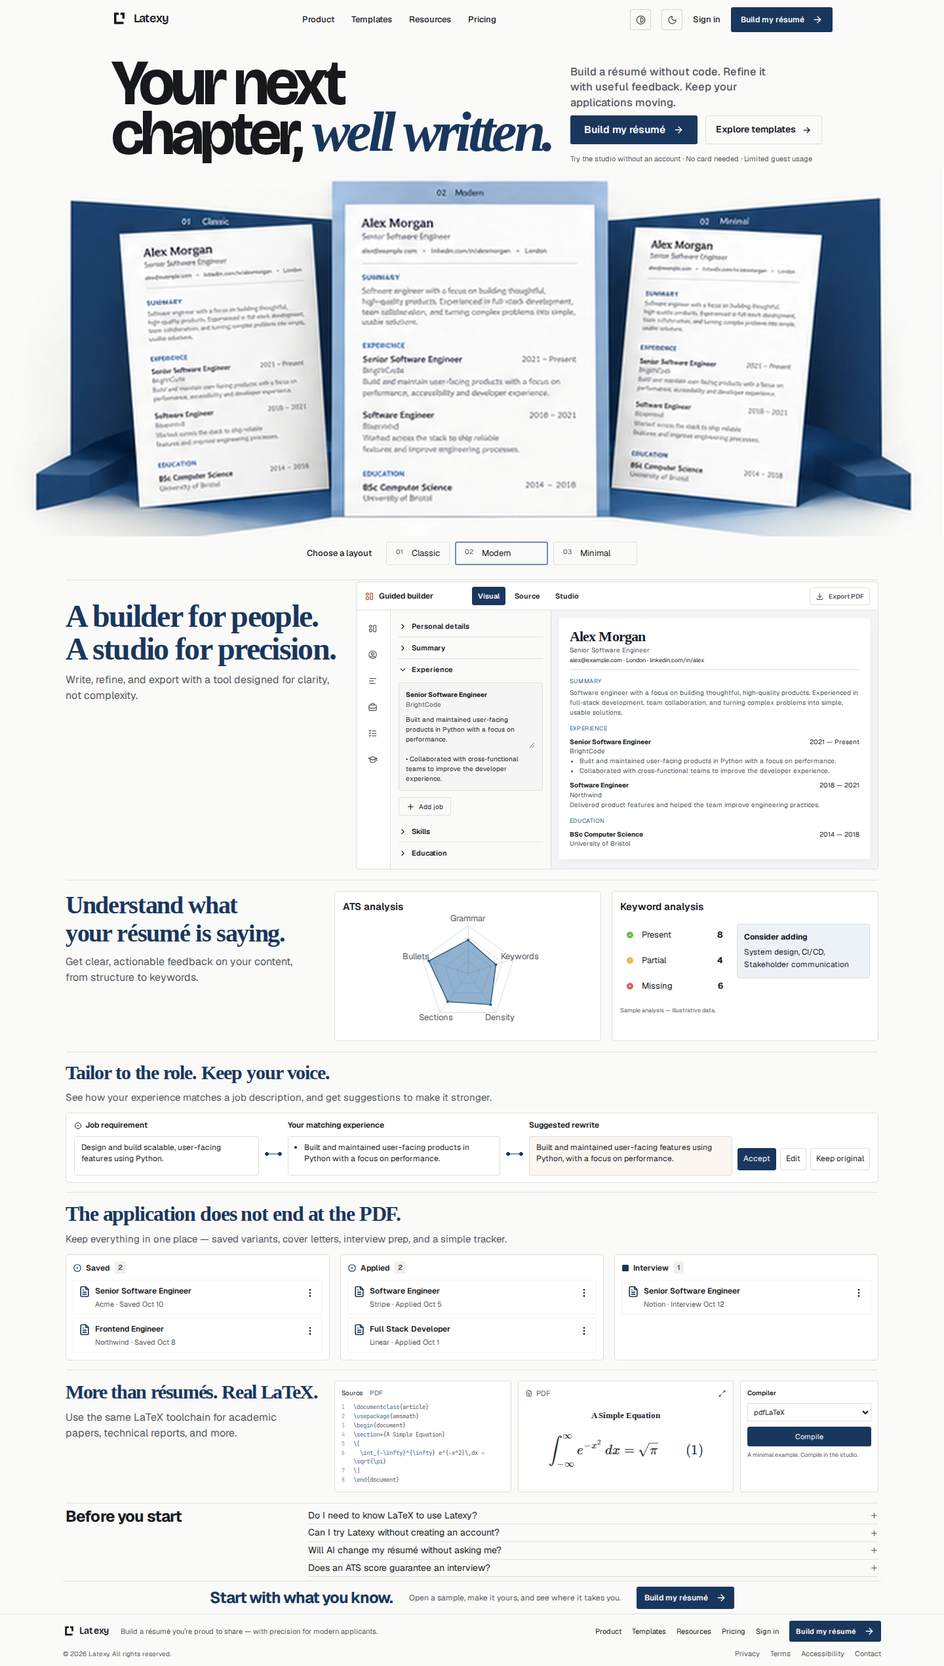
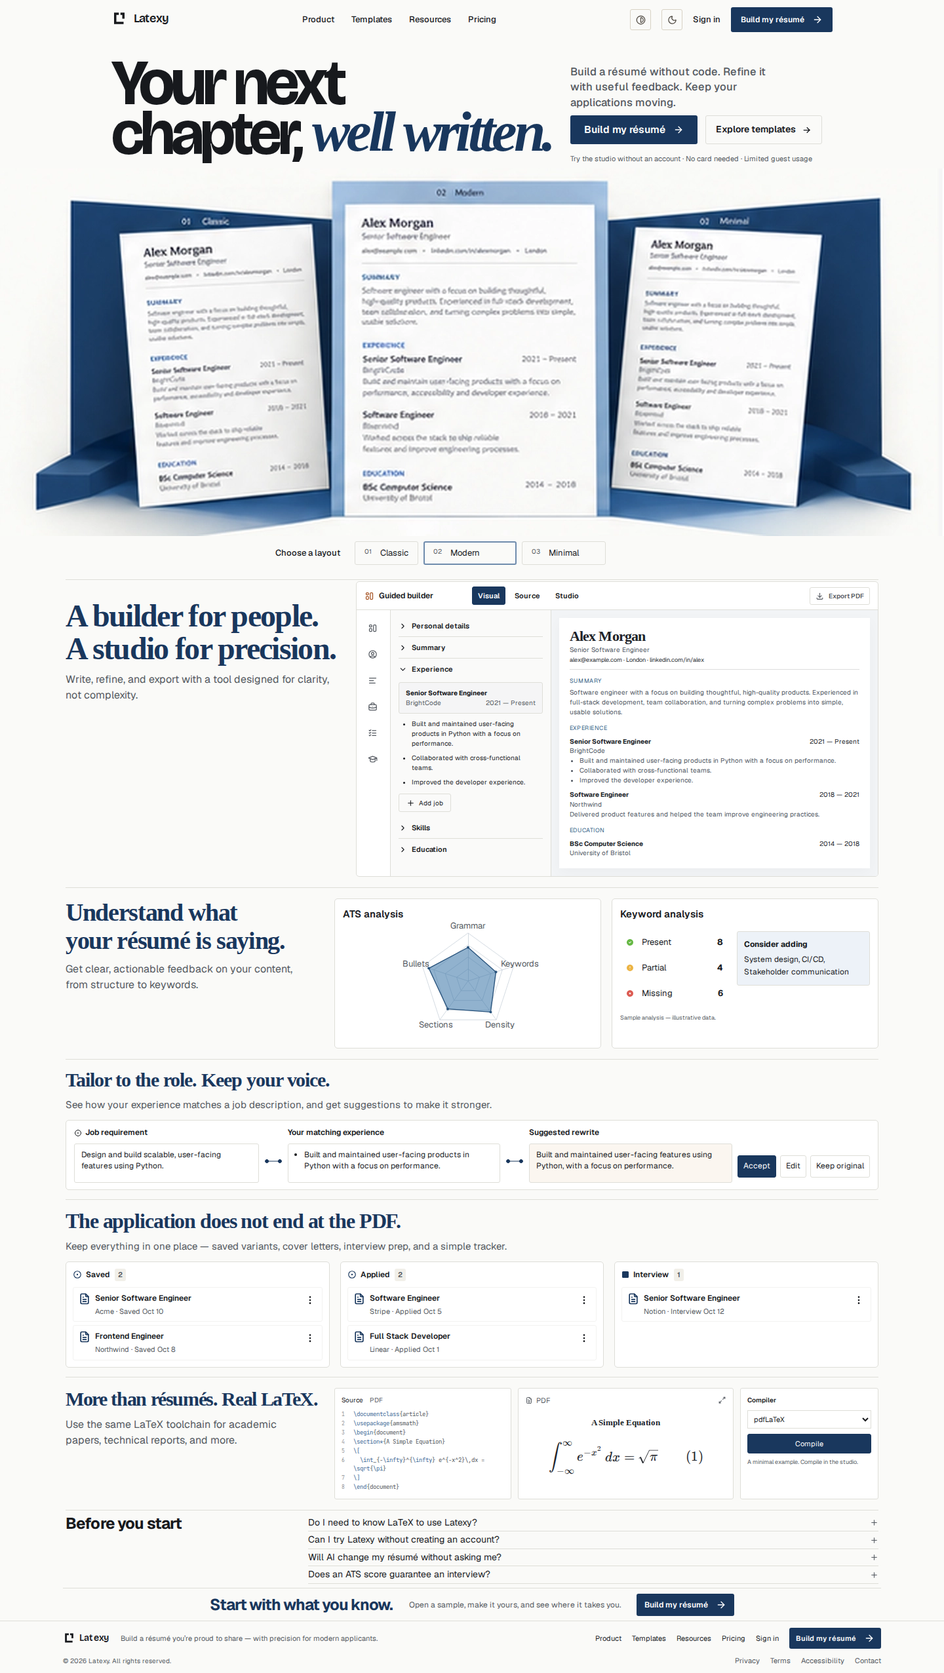
docs(marketing): publish final verified page screenshots

diff --git a/design-qa.md b/design-qa.md
@@ -1,121 +1,65 @@
 # Landing page design QA
 
-Date: 2026-10-13. Selected target: the third displayed concept from the second ideation set (Document House). Implementation branch: `codex/landing-document-house`, based on `7d1365bc` from `origin/main`.
+Reviewed: 2026-10-14. Scope: homepage marketing surface only. Branch: `codex/landing-document-house`, rebased onto main `d22998e0f45d55fd0a675e4cc622ab603c612d23` in the isolated worktree.
 
-## Visual truth and evidence
+## Evidence and comparison method
 
-- Source: `C:/Users/Sansk/.codex/generated_images/01a111a6-7bd6-7a81-9f26-b61e551a5767/exec-5ebff909-b113-416f-a1dd-3dfcc450d4dc.png`.
-- Browser evidence directory: `C:/Users/Sansk/.codex/visualizations/2026/10/06/01a111a6-7bd6-7a81-9f26-b61e551a5767/landing-qa/`.
-- Full views: `desktop-light.png`, `desktop-dark.png`, `mobile-light.png`, `mobile-dark.png`.
-- Focused dark views: `dark-builder-focused.png`, `dark-compiler-focused.png`.
-- Interaction evidence: `interactive-desktop.png`, `gallery-classic-focused.png`.
-- Normalized source views: `reference-light-normalized.png`, `reference-dark-normalized.png`.
+Selected target: the third displayed Document House reference, `exec-5ebff909-b113-416f-a1dd-3dfcc450d4dc.png` in the task's generated_images directory. The 1341 x 1173 paired image is split into light/dark halves and proportionally normalized to 1440px wide (2521/2517px tall). No vertical stretching is used.
 
-The source is a 1341 × 1173 paired theme image. Each half was cropped and proportionally resized to 1440 pixels wide: light 1440 × 2521, dark 1440 × 2517. Desktop captures use a 1440 × 1000 CSS viewport, device scale factor 1, with full-page height approximately 2767. Mobile uses 390 × 844 at scale factor 1. Default state is Modern gallery, guided authoring, collapsed personal details, expanded experience, and illustrative ATS findings. The source and rendered views were inspected together, then checked by a separate visual reviewer.
[1 lines of base64/hex data omitted]
 
-Full-page Chromium capture occasionally omitted off-screen text immediately after changing themes. Focused screenshots taken after scrolling into each preview prove all document text renders. Image completion, font readiness, two animation frames, and descendant color/visibility checks precede captures. White papers have RGB 255/255/255 backgrounds and RGB 32/35/41 text in dark mode.
+The source and latest actual renders were opened together in full-page comparison boards and focused section boards. The comparison directory is `C:/Users/Sansk/.codex/visualizations/2026/10/06/01a111a6-7bd6-7a81-9f26-b61e551a5767/landing-qa/current-acc/`. Focused captures cover all ten regions below in both themes, after loading fonts/images and scrolling each region into view. Their layout JSON uses document coordinates. Default state: Modern gallery, guided Visual builder, expanded experience, neutral illustrative keyword status, Source compiler view, collapsed FAQ.
+
+The committed raw captures are [desktop light](docs/design/landing/desktop-light.png), [desktop dark](docs/design/landing/desktop-dark.png), [mobile light](docs/design/landing/mobile-light.png) and [mobile dark](docs/design/landing/mobile-dark.png). Desktop is 1440 x 2553 pixels from a 1440 x 1000 CSS viewport at scale 1. Mobile is 1082 x 13170 pixels from the Pixel 7 profile, approximately 412 x 5015 CSS pixels. Mobile inspection boards normalize density to 412px. Exact hashes and provenance are in [capture metadata](docs/design/landing/capture.json).
+
+## Findings, corrections and post-fix review
+
+The earlier broad sign-off was withdrawn after user feedback. Fresh renders were used to identify and fix remaining differences; build success was never substituted for visual acceptance.
+
+| Region | Corrected detail | Final visual evidence / result |
+| --- | --- | --- |
+| Hero and header | Two-line headline, chapter/emphasis proportions and baselines, copy position, navy/amber actions, approved Imprint logo | Full boards and `*-lp-hero-comparison.png`; both themes preserve the selected hierarchy and wrapping. |
+| Gallery | Exact supplied gallery crop, paper dimensions, pale steel/gold palette, three selectors and selection border | `*-lp-gallery-comparison.png`; Modern now aligns beneath the center paper. Offset applies above 700px; mobile stays centered. |
+| Guided builder | Serif heading scale, rail, toolbar tabs, neutral/slate selection, preview proportions, role/company/date and three semantic bullets | `*-lp-builder-section-comparison.png`; final date/list fix is visible in both themes. Editor, source and preview share three bullets. No resize handle remains. |
+| ATS and keywords | Separate equal cards, chart scale/labels/fill, status icons and counts, dark recommendation bulb, neutral initial filters | `*-lp-analysis-section-comparison.png`; content is legible, theme contrast and card split match the composition. |
+| Tailoring | Inset cells, connector dots, bullet treatment, compact actions | `*-lp-tailoring-section-comparison.png`; no invented achievement is added by the suggested rewrite. |
+| Applications | Heading and three columns, count placement, stage symbols, document icons, softened nested borders | `*-lp-applications-section-comparison.png`; titles and dates fit at desktop and wrap on smaller widths. |
+| General LaTeX | Source/PDF/Compiler widths, syntax colors, Gaussian equation, actual PDF tab behavior and compile route | `*-lp-latex-section-comparison.png`; current Source boundary is within a few pixels of target. An older claimed 38px offset was rejected against current evidence. |
+| FAQ | Four source questions, heading and question column, rule spacing, right-hand plus/minus | `*-lp-faq-comparison.png`; collapsed and expanded states render correctly. |
+| Closing action | Compact heading, explanatory copy and primary action | `*-lp-closing-comparison.png`; desktop composition retained; mobile stacks controls. |
+| Footer | Brand/tagline group, navigation, sign-in, final action and legal row | `*-lp-footer-comparison.png`; logo and links are visible in both themes. Copyright correctly uses 2026. |
+
+No actionable P0/P1/P2 finding remains in the inspected final states. Independent focused review of the final gallery/builder captures also passed and found no new regression.
 
 ## Required fidelity surfaces
 
-- **Typography:** Bricolage display headline, serif italic emphasis, bold editorial section headings, Geist interface/body copy. Heading wrapping and weight were corrected to match the selected composition. Existing Imprint logo is reused.
-- **Layout:** preserved hero → gallery → authoring → ATS → tailoring → applications → LaTeX → FAQ → centered closing action → footer. The first implementation was 4008px tall; repeated revisions reduced it to approximately 2767px. The remaining height difference accommodates working controls, clearly labelled sample disclosures, and one additional LaTeX FAQ, without changing the principal composition.
-- **Colors:** paper/ink/navy in light mode; neutral charcoal, warm white headings, amber actions in dark mode. Gallery assets preserve white document paper. Semantic tokens support the existing high-contrast preference; reduced-motion CSS disables gallery transitions.
-- **Imagery:** optimized 1440 × 580 WebP gallery assets, approximately 82KB each. Source gallery geometry and pale steel blue center panel retained. Assets are illustrative samples, not actual customer documents. Product demos are editable interface content, not raster screenshots of controls.
-- **Copy:** selected headline and section framing retained. Removed invented metrics and unsupported rewrite claims; all samples and analysis are labelled. Compiler action opens the actual studio instead of presenting simulated compilation success. Guest limits/account requirements and ATS limitations remain explicit.
+- Typography: matched bold sans hero, self-hosted Tinos serif emphasis and section headings, interface/body hierarchy. Font readiness is awaited. Small raster-source glyph/antialiasing differences remain acceptable.
+- Spacing/layout: all ten sections retain their order, relative widths and compact vertical rhythm. Final desktop height differs from normalized reference by 32-36px; functioning controls and readable sample content account for the small difference.
+- Colors/tokens: navy/paper light mode, charcoal/warm-white/amber dark mode, restrained dividers, neutral/slate builder selection and white document papers checked in actual renders. Existing high-contrast and reduced-motion preferences remain supported.
+- Image quality: the supplied gallery art is reused as lossless 1440 x 561 WebP crops, without replacing editable UI with a screenshot. Mobile uses an intentional centered gallery crop. No generic substitute imagery or emoji is used.
+- Copy/content: resume-led framing includes guided building, ATS/keywords, tailoring, applications and general LaTeX. Examples are labelled; the rewrite preserves stated experience. Guest/account limits and actual guarded destinations remain truthful.
 
-## Comparison history
+## Responsive and interaction verification
 
-1. P1: excessive vertical density, centered section headings, thin typography, amber dark headings, exposed status selects. Fixed compact spacing, top alignment, bold headings, separate dark heading token, collapsed disclosures, and accessible overflow menus.
-2. P2: saturated gallery center, missing builder rail, unstyled source commands, loose FAQ/footer, missing footer CTA. Fixed pale steel gallery, functional icon rail, source syntax colors, compact FAQ/footer, centered final action, and gated footer CTA.
-3. Apparent P1: missing dark preview text in full-page capture. Verified complete visible text with scrolled focused captures and computed descendant styles; no application CSS workaround was necessary.
-4. P2: gallery selection changed only labels and implied a filtered destination. Fixed real selected-layout focus transform and a plainly named template-library link. Browser verification exercises both selected state and rendered transform.
-5. CI/review found optional entry links missing capability gates and the application schema resolving its origin too early. Restored template/builder/studio gates, render-time schema origin, and the unchanged generic footer. All 23 existing tests covering these contracts pass without test edits.
-6. The generated capability audit required six additional frontend control-path entries after the refactor. Regenerated the matrix using its existing script; its existing contract passes. No backend policy or tests changed. Linux CI on `8f5498e2` passed all 2197 frontend unit tests and ESLint.
+CI uses isolated synthetic anonymous-session and feature-grant fixtures, not personal browser data or a claim of production backend availability. Chromium, Firefox and WebKit desktop plus mobile Chromium/WebKit all passed the representative visual case. Both themes and long name/role/bullet input were captured. Tablet widths 768, 1024 and 1101px exercise Source and PDF states, expanded FAQ and long input, with document overflow, equation bounds and Compile action bounds assertions. Latest mobile sections and tablet compiler/FAQ/footer renders were visually inspected.
 
-## Interaction verification
+Existing browser contracts cover gallery selection, builder editing and keyboard tabs, analysis filters, rewrite edit/accept/keep-original, application-stage menus, compiler tabs/actual studio destination, FAQ, navigation and access-denied states. No assertion was relaxed or unrelated failing test patched.
 
-Playwright was authorized after the app browser automation retry timed out. Verification uses an isolated anonymous-session fixture and explicit allowed feature grants; application access policy is unchanged. It checks:
+All required CI checks passed on the captured source, including production build, frontend/backend lint, backend tests, cross-browser quality, real compile/preview, full-stack smoke and security checks. Local TypeScript, formatting and 23 unchanged relevant contract tests passed. Frozen dependency installation and Next hydration integrity verification passed after rebasing. CodeRabbit skips draft reviews; that status is not a code review approval.
 
-- Gallery selection changes preview focus; library link remains truthful.
-- Builder input changes appear in the document; tabs support keyboard Home navigation.
-- ATS category controls change the displayed explanation.
-- Tailoring edits, approval, and keeping the original work locally.
-- Application menu moves a card between stages, retaining keyboard focus.
-- Compiler selection changes its explanation; actual compilation remains in the studio.
-- FAQ expansion, canonical URL, FAQ JSON-LD, and the primary studio navigation.
-- No horizontal overflow at 1440px and 390px; no browser page errors during these checks.
-- Tablet 768px/high-contrast capture and denied capability fixtures confirm no overflow and no optional template, builder, or studio entry actions when access is denied.
+## Acceptable differences and follow-up polish
 
-TypeScript and scoped ESLint pass. Production compilation and all 44 static routes succeeded; Windows standalone packaging failed with EPERM creating dependency symlinks. Linux CI remains the release packaging gate. Local source and tests were not changed to bypass that failure. The installed Next hydration patch was repaired only in this worktree's node_modules after proving normalized files exactly matched the existing integrity hashes.
+P3 only: browser glyph rasterization, reference microcopy artifacts, tiny chart-grid/icon-shape differences, and tablet closing-heading wrapping. The reference supplies desktop theme states only; mobile/tablet adaptations are checked for readable layout and working controls rather than an invented pixel-perfect mobile reference. These do not justify another fidelity loop.
 
-## Follow-up polish and limits
+The publication commit changes only this report and screenshot documentation; its frontend tree must remain identical to the captured tree. This remains a draft PR for user review and has not been merged.
 
-- P3: tiny text in gallery documents is illustrative raster microcopy; editable sample content and accessible descriptions are provided separately.
-- Backend authentication, compilation, billing, and persistence are existing product behavior and were not reimplemented by the landing-page samples. Visual checks with service fixtures do not establish backend availability.
-- CI and code review must pass before the draft is considered ready for merge.
+## Implementation checklist
 
-## Mobile navigation regression follow-up
+- [x] Exact selected reference resolved and paired with current actual captures.
+- [x] All ten sections checked in light and dark mode, with focused evidence.
+- [x] Earlier actionable findings corrected and freshly recaptured.
+- [x] Mobile/tablet, long input, disclosures and key interactions verified.
+- [x] Actual post-commit page screenshots published in the PR with provenance.
+- [x] Main checkout left untouched; captured source CI passed.
 
-Cross-browser CI exposed the missing homepage menu after sign-out. The homepage now consumes the existing GlobalHeader mobile panel, session handling, capability filtering, focus trap, Escape behavior, and sign-out logic. Only its trigger is styled for the selected landing design. Desktop composition is unchanged. Existing tests remain unchanged. On `6d5fc743`, all 21 CI checks passed, CodeQL completed neutral, Vercel deployed, and no checks failed. The cross-browser job passed all five configurations, including authenticated sign-out to the homepage guest menu, plus builder/editor/source-PDF and hydration regressions. Real native compilation and full-stack smoke also passed.
-
[1 lines of base64/hex data omitted]
-
-The final documentation commit changes this report only; application code and assets remain exactly those tested on `6d5fc743`.
-
-final result: blocked
-
-## Reopened precision review - 2026-10-14
-
-The user identified remaining visual drift. The earlier broad-view approval was insufficient. This pass compares the exact selected source and implementation together, then uses focused region boards for every section. The previous reports above are retained as iteration history, not the current acceptance result.
-
-Evidence directory: `landing-qa/precision-review/` alongside the earlier evidence directory. Full comparisons: `light-full-comparison.png`, `dark-full-comparison.png`; focused comparisons: `light-hero-focused.png`, `light-ats-focused.png`, `dark-ats-focused.png`, `lower-light-crop.png`, `lower-dark-crop.png`. These boards put normalized source and implementation at the same 1440px width without stretching their heights.
-
-### Findings and corrections in progress
-
-- P1 hero/header: source starts near x170, implementation x96. Narrow the header/hero to 1100px, preserve the supporting-copy column near x870, restore headline scale/weight and narrower Times italic metrics, and include the secondary arrow.
-- P2 gallery: generated approximation changes the center-panel width and outer rotations. Extract the exact gallery artwork from the supplied source, measured at source light `(0,120)-(670,381)` and dark `(671,120)-(1341,381)`, then losslessly store resized 1440x561 assets. Center only the three layout controls; retain specimen disclosure for assistive technology.
-- P2 builder: restore Summary, selected experience card and bullet presentation, six rail controls, outlined Export PDF entry, and solid active tab. Match PDF body typography and blue section labels. Export still opens the guarded product flow, accurately labelled for assistive technology.
-- P1 ATS: split into two equal separate cards, use the existing Visx chart primitives, restore scale, grid, vertex dots and strong blue/gold fill, brighten category markers, remove initial selected-row highlight, and restore the subtle result panel. Scores remain explicitly illustrative.
-- P2 tailoring: restore inset cells, subtle connectors, requirement marker, plain initial Accept, and compact default specimen disclosure. Keep genuine editable/reviewed wording.
-- P2 application board: restore inline count badges, nested cards, illustrative company/status/date metadata, colored document icons, and source panel height. Existing variant information remains in the menu/accessible title.
-- P2 LaTeX: restore one-line heading, separate panels, Source/PDF controls, numbered source, compact Compiler label, full-width action, and restrained blue syntax. Compilation still opens the actual guarded studio; no simulated successful compilation.
-- P2 FAQ/closing/footer: restore four FAQ rows and right-side plus/minus indicators; compact closing typography, button and padding; group the smaller logo/tagline, restore Sign in, and reduce footer height. Current copyright year is retained.
-
-### Required post-fix evidence
-
-The existing CI landing screenshot case now records both themes at a 1440x1000 desktop CSS viewport, focused captures for all ten regions, layout measurements, mobile captures, and long-name/role/bullet plus disclosure/tab states. Assertions were extended, not relaxed. The in-app browser remains on a blocked `data:` error page; CI rendering uses isolated synthetic service fixtures and does not inspect that page or personal browser data.
-
-Current blocker: fresh browser-rendered CI evidence and post-fix focused comparison are pending. Do not hand off as passed until the revised captures have been reviewed. Actual light/dark page screenshots will be included in the PR after commits, as explicitly requested.
-
-final result: blocked
-
-
-### Fresh CI review of 5b5fc51a
-
[1 lines of base64/hex data omitted]
-
-Visual acceptance remains blocked: the source comparison found a three-line hero caused by a 652px first track (italic ink already matches at 364px), undersized builder/lower headings and demo copy, cream/brown builder surfaces, and the duplicate PDF-tab preview. Corrections now preserve the 680/20/400 hero geometry, use neutral/slate specimen surfaces, restore measured type sizes, larger ATS labels, compact FAQ copy, status icons and a single expanded PDF view. Tailoring wording is constrained to the original sample claims. TypeScript, scoped ESLint and 23 existing contract tests passed unchanged. Awaiting the next actual render to verify these corrections.
-
-final result: blocked
-
-
-### Focused review of 5cdb522c
-
[1 lines of base64/hex data omitted]
-
-Independent focused reviews found no remaining P1, but retained P2 acceptance blocks: chapter/italic spacing, selected gallery widths, builder row/column/tab alignment, status icon detail, dark suggestion icon, Gaussian sample, compiler/FAQ column alignment, tailoring connectors/bullet and board border contrast. Those have now been corrected as one batch. Tablet layouts receive their own space rather than shrinking three compiler panes into a narrow column. The existing screenshot evidence case adds 768/1024/1101px checks for both compiler views and primary-action bounds, using long local sample content. All other test cases remain verbatim. Superseded CSS declarations for identical selectors/conditions were removed while preserving the final cascade.
-
-TypeScript, scoped ESLint and the 23 unchanged relevant contract tests passed. Source/asset verification is awaiting the next fresh CI render. Screenshots will be published in the PR with exact capture/source provenance.
-
-final result: blocked
-
-
-### Review capture publication - d36723f8
-
[1 lines of base64/hex data omitted]
-
-Two final P2 corrections remain to be recaptured: move the row-style gallery selectors 48px left to align Modern with its paper; and restore the builder's company/date plus three semantic bullets in editor, source and preview. Both are now implemented. A stale compiler-offset observation was checked against the actual current board and existing 370px+40px layout; no additional compiler layout patch was made.
-
-Actual d36723f8 screenshots are now saved under `docs/design/landing/` for PR review, copied unchanged from the browser artifact. Their metadata clearly identifies the captured source, not the subsequent alignment/list revision. They will be refreshed after that revision is captured.
-
-final result: blocked
+final result: passed

diff --git a/docs/design/landing/README.md b/docs/design/landing/README.md
@@ -1,13 +1,14 @@
 # Actual landing-page screenshots
 
-These files are browser renders of the committed application, not generated mockups. They are copied unchanged from the CI artifact.
+These files are actual browser renders of the committed application, copied unchanged from the CI artifact.
 
-- Captured source: `d36723f83b05023a475426eb91bcfe20084c7171`
-- Source frontend tree: `16e58af129ee94a8ea2c156b8b80c3122c6bf4bf`
-- [Capture workflow](https://github.com/sanskarpan/Latexy/actions/runs/38472114434)
-- Desktop viewport: 1440 x 1000 CSS pixels, full page.
-- Mobile: Playwright Pixel 7 profile, full page.
-- Both themes use the page's real mode control; fonts and visible images finish loading before capture. Animation is disabled for consistent inspection.
-- The browser case uses isolated anonymous-session/allowed-feature fixtures. It does not claim that production backend services were contacted.
+- Captured source: `acc6c07f0ed3f706e832560040047b23597f6da7`
+- Frontend tree: `3f47e634e3aea80e41a7aafd4e0d9a41c2c87a18`
+- [Capture workflow](https://github.com/sanskarpan/Latexy/actions/runs/38476370222)
+- Desktop: 1440 x 1000 CSS viewport, full page, Chromium at device scale 1.
+- Mobile: Playwright Pixel 7 profile (412 CSS pixels wide), full page.
+- Both themes use the page's real mode control. Fonts and visible images load before capture; animation is disabled for inspection.
+- Captures include the final gallery alignment and builder date/list corrections.
+- The case uses isolated anonymous-session/allowed-feature fixtures. These screenshots do not claim that production backend services were contacted.
 
-`capture.json` records the source, artifact digest, image dimensions and hashes. These review captures precede the final selector-axis and three-bullet/date corrections. The images will be refreshed after that source is captured.
+`capture.json` records the source, artifact digest, image dimensions and hashes. The screenshot publication commit leaves the captured frontend tree unchanged.
